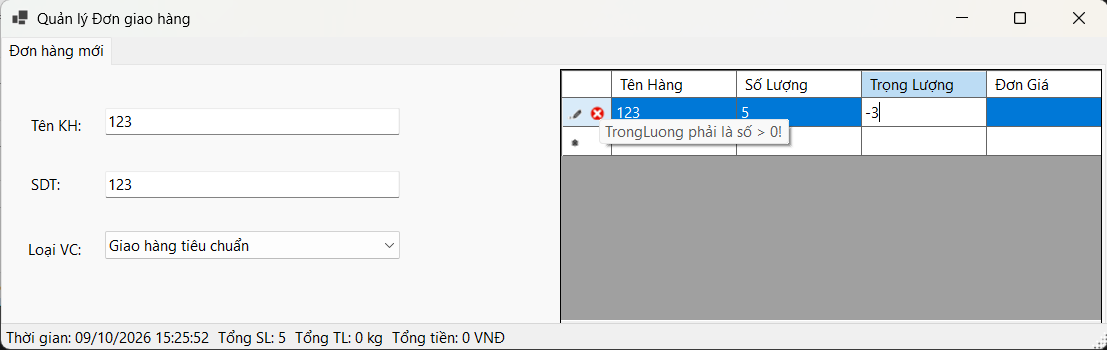
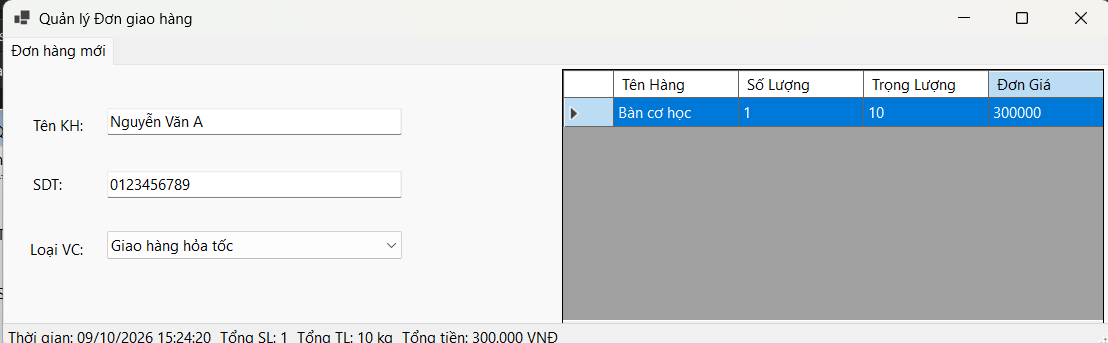
Bo sung case

diff --git a/Bai1_ServiceChargeCalculator/README.md b/Bai1_ServiceChargeCalculator/README.md
@@ -15,3 +15,6 @@
 
 ### 2. Ảnh màn hình Chức năng thực thi / Kết quả
 ![Thực thi chức năng](./screenshots/result.png)
+![Thực thi chức năng](./screenshots/error1.png)
+![Thực thi chức năng](./screenshots/error2.png)
+![Thực thi chức năng](./screenshots/error3.png)

diff --git a/Bai2_IT_Support_Ticket_Form/README.md b/Bai2_IT_Support_Ticket_Form/README.md
@@ -15,3 +15,4 @@
 
 ### 2. Ảnh màn hình Chức năng thực thi / Kết quả
 ![Thực thi chức năng](./screenshots/result.png)
+![Thực thi chức năng](./screenshots/error1.png)

diff --git a/Bai3_Item_List_Manager/README.md b/Bai3_Item_List_Manager/README.md
@@ -15,3 +15,4 @@
 
 ### 2. Ảnh màn hình Chức năng thực thi / Kết quả
 ![Thực thi chức năng](./screenshots/result.png)
+![Thực thi chức năng](./screenshots/error1.png)
